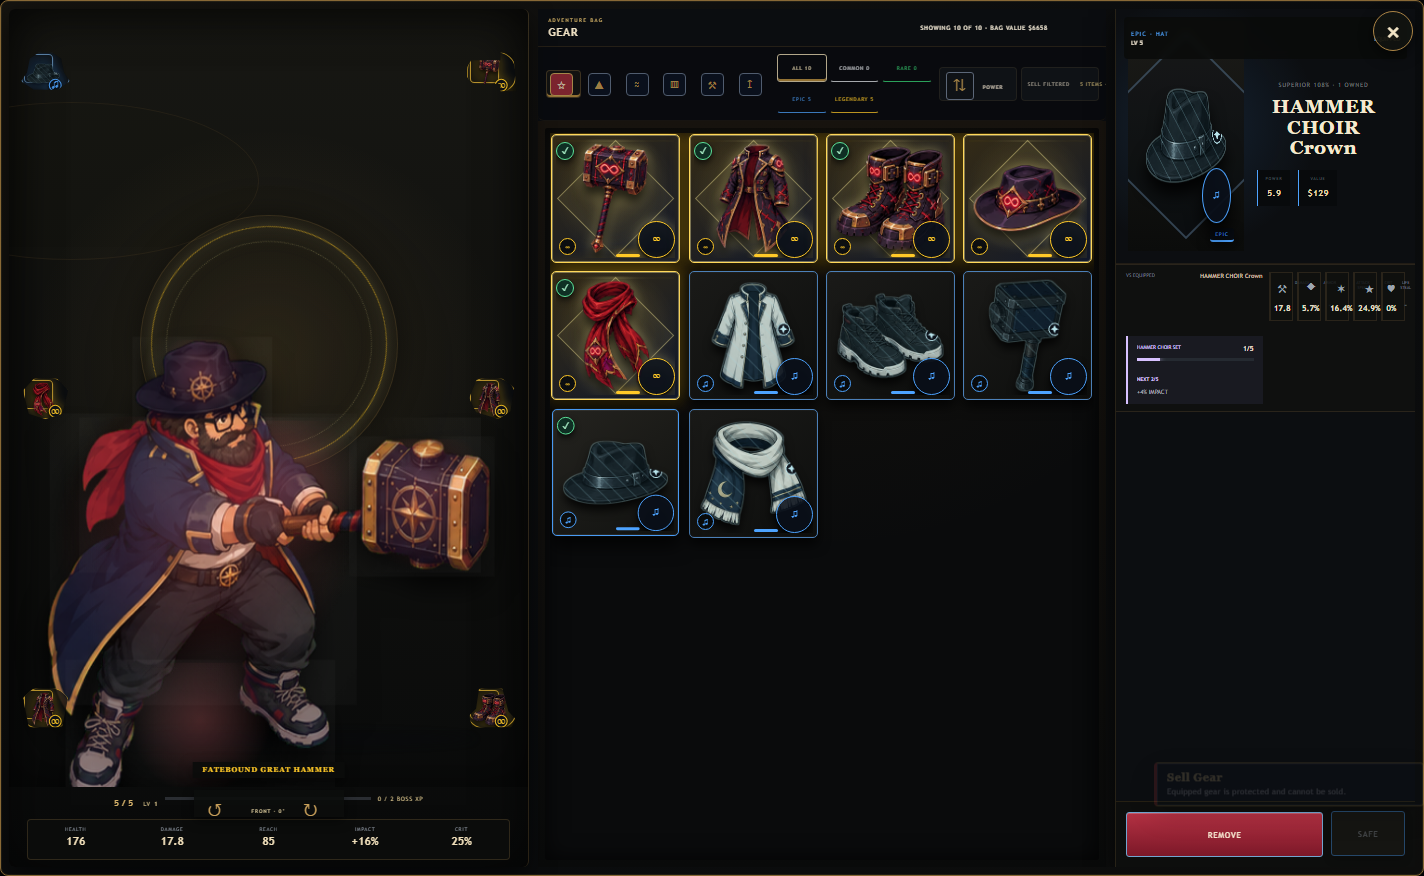
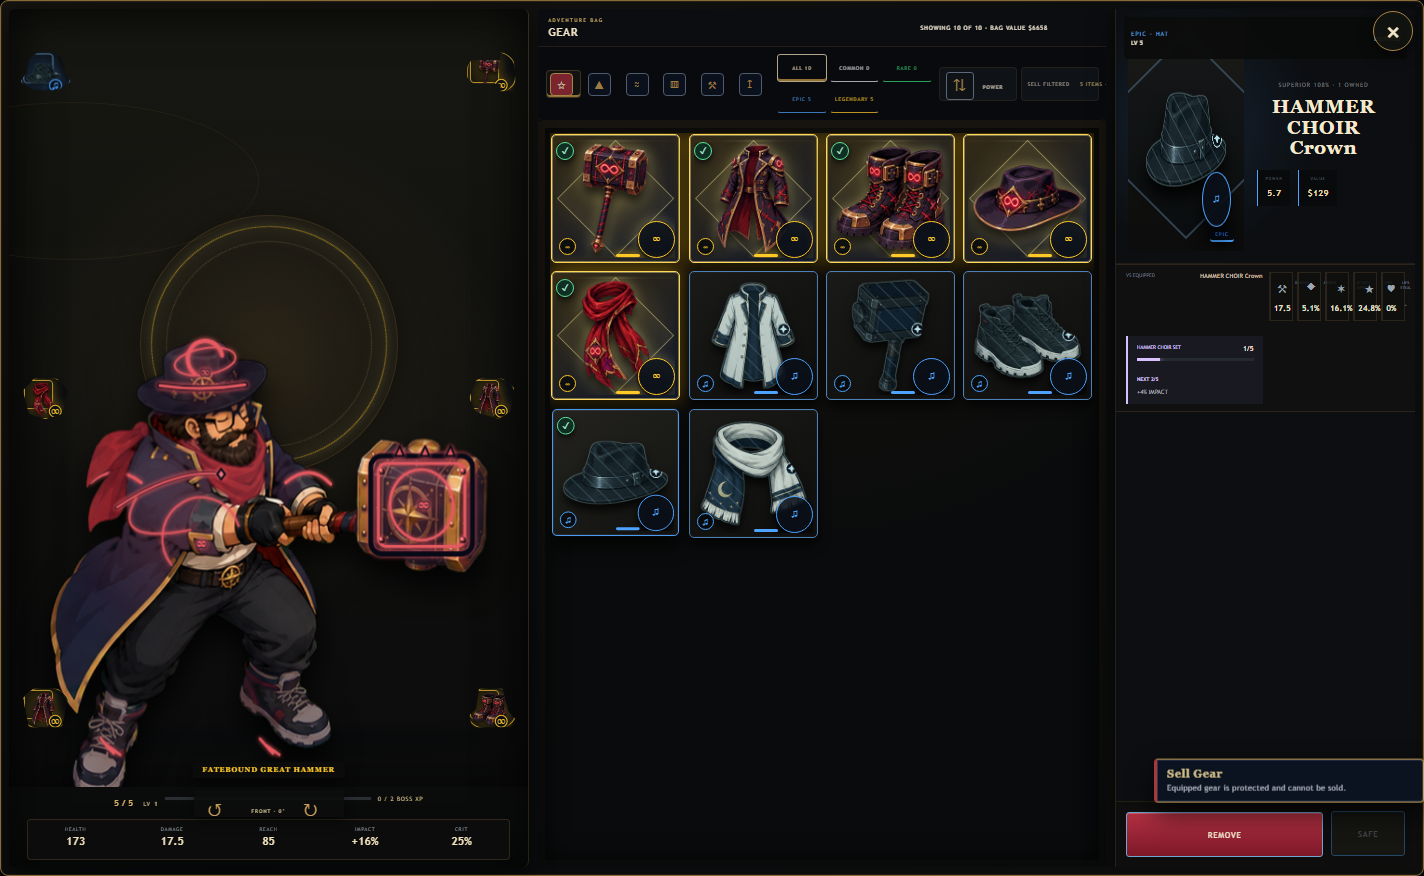
Make every equipped set piece visible

diff --git a/script.js b/script.js
@@ -543,7 +543,7 @@
     layer.fillStyle='#080b11';layer.beginPath();layer.arc(x+1,y+1,r+1,0,Math.PI*2);layer.fill();layer.fillStyle=color;layer.beginPath();layer.arc(x,y,r,0,Math.PI*2);layer.fill();layer.fillStyle=paperDollMix(color,'#ffffff',.58);layer.beginPath();layer.arc(x-r*.28,y-r*.3,Math.max(1,r*.27),0,Math.PI*2);layer.fill()
   }
   function paperDollGem(layer,x,y,r,profile){
-    layer.save();layer.shadowColor=profile.accent;layer.shadowBlur=profile.rank===4?10:5;layer.fillStyle=paperDollMix(profile.accent,'#ffffff',.34);layer.strokeStyle=profile.shadow;layer.lineWidth=2;layer.beginPath();layer.moveTo(x,y-r);layer.lineTo(x+r*.78,y);layer.lineTo(x,y+r);layer.lineTo(x-r*.78,y);layer.closePath();layer.fill();layer.stroke();layer.restore()
+    layer.save();layer.fillStyle=paperDollMix(profile.accent,'#ffffff',.34);layer.strokeStyle=profile.shadow;layer.lineWidth=2;layer.beginPath();layer.moveTo(x,y-r);layer.lineTo(x+r*.78,y);layer.lineTo(x,y+r);layer.lineTo(x-r*.78,y);layer.closePath();layer.fill();layer.stroke();layer.restore()
   }
   function drawPaperDollMaterial(layer,item,slot,b){
     if(!b)return;let profile=paperDollProfile(item),x=b.x,y=b.y,w=b.w,h=b.h,rank=profile.rank;
@@ -560,12 +560,12 @@
     depth.addColorStop(0,'rgba(255,255,255,.2)');
     depth.addColorStop(.45,'rgba(255,255,255,0)');
     depth.addColorStop(1,'rgba(0,0,0,.34)');
-    layer.globalCompositeOperation='overlay';layer.globalAlpha=.34;layer.fillStyle=depth;layer.fillRect(x-3,y-3,w+6,h+6);
+    layer.globalCompositeOperation='source-atop';layer.globalAlpha=.34;layer.fillStyle=depth;layer.fillRect(x-3,y-3,w+6,h+6);
     if(rank>=2){
       let finish=layer.createRadialGradient(x+w*.5,y+h*.42,1,x+w*.5,y+h*.42,Math.max(8,Math.min(w,h)*.55));
       finish.addColorStop(0,paperDollRgba(profile.accent,rank===4?.24:.12));
       finish.addColorStop(1,paperDollRgba(profile.accent,0));
-      layer.globalCompositeOperation='screen';layer.globalAlpha=1;layer.fillStyle=finish;layer.fillRect(x,y,w,h)
+      layer.globalCompositeOperation='source-atop';layer.globalAlpha=1;layer.fillStyle=finish;layer.fillRect(x,y,w,h)
     }
     layer.restore()
   }
@@ -660,10 +660,7 @@
       if(profile.hammer==='lantern'){paperDollGem(layer,px+pw*.51,py+ph*.5,7,profile);layer.strokeStyle=metal;layer.lineWidth=2;layer.beginPath();layer.arc(px+pw*.51,py+ph*.5,11,0,Math.PI*2);layer.stroke()}
       drawPaperDollMark(layer,item,px+pw*.52,py+ph*.5,10+rank)
     }else if(slot==='boots'){
-      for(const bx of [x+w*.18,x+w*.79]){
-        let bootW=w*.16,baseY=y+h*.72;layer.strokeStyle=dark;layer.lineWidth=4;layer.beginPath();layer.moveTo(bx-bootW*.55,baseY);layer.quadraticCurveTo(bx,baseY+h*.1,bx+bootW*.62,baseY-h*.01);layer.stroke();layer.strokeStyle=metal;layer.lineWidth=2.5;layer.stroke();
-        if(['plate','vault','reaver'].includes(profile.boots))paperDollRivet(layer,bx,baseY-h*.035,2.1,metal)
-      }
+      for(const bx of [x+w*.18,x+w*.79])if(['plate','vault','reaver'].includes(profile.boots))paperDollRivet(layer,bx,y+h*.54,2.1,metal);
       if(['trail','guard','forge','royal'].includes(profile.boots)){layer.strokeStyle=metal;layer.lineWidth=2;for(const bx of [x+w*.18,x+w*.79]){layer.beginPath();layer.moveTo(bx-w*.045,y+h*.58);layer.lineTo(bx+w*.04,y+h*.58);layer.moveTo(bx-w*.035,y+h*.63);layer.lineTo(bx+w*.05,y+h*.63);layer.stroke()}}
       if(['swift','phantom','fate'].includes(profile.boots)){layer.strokeStyle=accent;layer.lineWidth=2.5;for(const bx of [x+w*.18,x+w*.79]){layer.beginPath();layer.moveTo(bx-w*.02,y+h*.67);layer.lineTo(bx-w*.07,y+h*.56);layer.moveTo(bx+w*.005,y+h*.68);layer.lineTo(bx-w*.045,y+h*.61);layer.stroke()}}
       if(profile.boots==='reaver'){layer.fillStyle=metal;for(const bx of [x+w*.18,x+w*.79]){layer.beginPath();layer.moveTo(bx+w*.055,y+h*.7);layer.lineTo(bx+w*.1,y+h*.65);layer.lineTo(bx+w*.08,y+h*.75);layer.closePath();layer.fill()}}
@@ -673,7 +670,7 @@
   function composePaperDollPose(pose,resolveItem){
     let resolver=resolveItem||equippedItem;
     let source=pappaHammerSprites[pose],out=document.createElement('canvas'),scratch=document.createElement('canvas');out.width=PAPER_DOLL_CELL*4;out.height=PAPER_DOLL_CELL*2;scratch.width=scratch.height=PAPER_DOLL_CELL;let outCtx=out.getContext('2d'),layer=scratch.getContext('2d');if(!outCtx||!layer)return source;outCtx.imageSmoothingEnabled=layer.imageSmoothingEnabled=true;outCtx.imageSmoothingQuality=layer.imageSmoothingQuality='high';
-    for(let frame=0;frame<8;frame++){let sx=frame%4*512,sy=Math.floor(frame/4)*512,dx=frame%4*PAPER_DOLL_CELL,dy=Math.floor(frame/4)*PAPER_DOLL_CELL;outCtx.drawImage(source,sx,sy,512,512,dx,dy,PAPER_DOLL_CELL,PAPER_DOLL_CELL);for(const renderLayer of PAPER_DOLL_RENDER_LAYERS){let slot=renderLayer.slot,item=resolver(slot);if(!item)continue;let mask=paperDollMaskFrame(pose,slot,frame);layer.clearRect(0,0,PAPER_DOLL_CELL,PAPER_DOLL_CELL);layer.globalCompositeOperation='source-over';layer.globalAlpha=1;layer.drawImage(source,sx,sy,512,512,0,0,PAPER_DOLL_CELL,PAPER_DOLL_CELL);layer.globalCompositeOperation='destination-in';layer.drawImage(mask.canvas,0,0);layer.globalCompositeOperation='source-over';drawPaperDollMaterial(layer,item,slot,mask.bounds);outCtx.drawImage(scratch,dx,dy)}}return out
+    for(let frame=0;frame<8;frame++){let sx=frame%4*512,sy=Math.floor(frame/4)*512,dx=frame%4*PAPER_DOLL_CELL,dy=Math.floor(frame/4)*PAPER_DOLL_CELL;outCtx.drawImage(source,sx,sy,512,512,dx,dy,PAPER_DOLL_CELL,PAPER_DOLL_CELL);for(const renderLayer of PAPER_DOLL_RENDER_LAYERS){let slot=renderLayer.slot,item=resolver(slot);if(!item)continue;let mask=paperDollMaskFrame(pose,slot,frame);layer.clearRect(0,0,PAPER_DOLL_CELL,PAPER_DOLL_CELL);layer.globalCompositeOperation='source-over';layer.globalAlpha=1;layer.drawImage(source,sx,sy,512,512,0,0,PAPER_DOLL_CELL,PAPER_DOLL_CELL);layer.globalCompositeOperation='destination-in';layer.drawImage(mask.canvas,0,0);layer.globalCompositeOperation='source-over';drawPaperDollMaterial(layer,item,slot,mask.bounds);drawPaperDollGeometry(layer,slot,item,mask.bounds,pose,frame);outCtx.drawImage(scratch,dx,dy)}}return out
   }
   function applyPaperDollAtlases(next,key){paperDollAtlases=next;paperDollKey=key;let preview=next.idle&&typeof next.idle.toDataURL==='function'?'url("'+next.idle.toDataURL('image/png')+'")':'url("'+next.idle.src+'")';ui.pappaHammerBaseSprite.style.backgroundImage=preview;ui.gearCharacterHero.style.backgroundImage=preview;ui.gearCharacterHero.dataset.gearVisualKey=paperDollLoadoutKey()}
   function refreshPaperDoll(){
@@ -1030,19 +1027,19 @@
   function playGearEquipEffect(gear,awakened,fullSetActivated){
     let item=gearDefinition(gear),rarity=item&&LOOT_RARITIES[item.rarity],set=item&&item.setId&&SET_BY_ID[item.setId],signature=item&&item.setId&&GEAR_SIGNATURES[item.setId],legendary=item&&item.rarity==='legendary';if(!rarity||!ui.gearCharacterStage)return;
     ui.gearCharacterStage.style.setProperty('--equip-color',signature&&awakened?signature.color:rarity.color);
-    ui.gearCharacterStage.classList.remove('equipBurst','equipLegendary','equipRank2','equipRank4','signatureAwaken','stormcallerAwaken');
+    ui.gearCharacterStage.classList.remove('equipBurst','equipLegendary','equipRank2','equipRank4','signatureAwaken','stormcallerAwaken','fullSetMorph');
     if(ui.pappaHammerBase)ui.pappaHammerBase.classList.remove('stormcallerAwaken');
+    if(fullSetActivated){
+      ui.gearCharacterStage.classList.add('fullSetMorph');
+      setTimeout(()=>ui.gearCharacterStage.classList.remove('fullSetMorph'),420);
+      return
+    }
     ui.gearCharacterStage.classList.add('equipBurst');
     if(legendary)ui.gearCharacterStage.classList.add('equipLegendary','equipRank4');
     gearSlotFeedback(item.slot,rarity,legendary);
     if(awakened&&legendary)ui.gearCharacterStage.classList.add('signatureAwaken');
-    if(fullSetActivated&&item.setId==='stormrunner'){
-      ui.gearCharacterStage.classList.add('stormcallerAwaken');
-      if(ui.pappaHammerBase)ui.pappaHammerBase.classList.add('stormcallerAwaken')
-    }
-    if(fullSetActivated&&set&&ui.gearSetAwaken){ui.gearSetAwaken.style.setProperty('--set-color',signature?signature.color:set.accent);ui.gearSetAwaken.innerHTML='<small>FULL SET AWAKENED</small><b>'+escapeMarkup(set.name)+'</b><em>'+escapeMarkup(signature?signature.name:'SET MASTERY')+'</em>';ui.gearSetAwaken.classList.remove('show');requestAnimationFrame(()=>ui.gearSetAwaken.classList.add('show'));ui.gearSetAwaken.setAttribute('aria-hidden','false')}
     setTimeout(()=>{
-      ui.gearCharacterStage.classList.remove('equipBurst','equipLegendary','equipRank2','equipRank4','signatureAwaken','stormcallerAwaken');
+      ui.gearCharacterStage.classList.remove('equipBurst','equipLegendary','equipRank2','equipRank4','signatureAwaken','stormcallerAwaken','fullSetMorph');
       if(ui.pappaHammerBase)ui.pappaHammerBase.classList.remove('stormcallerAwaken');if(ui.gearSetAwaken){ui.gearSetAwaken.classList.remove('show');ui.gearSetAwaken.setAttribute('aria-hidden','true')}
     },fullSetActivated?1650:awakened?1100:760)
   }
@@ -2781,8 +2778,9 @@
         let removed=new Set(save.gear.filter(gear=>{let item=gearDefinition(gear);return item&&item.setId===setId}).map(gear=>gear.uid));
         save.gear=save.gear.filter(gear=>!removed.has(gear.uid));
         for(const slot of GEAR_SLOTS)save.equipped[slot]=null;
-        for(let index=0;index<GEAR_SLOTS.length;index++){
-          let slot=GEAR_SLOTS[index],item=SET_ITEMS.find(entry=>entry.setId===setId&&entry.slot===slot),gear=rollGearInstance(item,Math.max(set.minLevel,save.level),1.08);
+        let progressionSlots=['hat','scarf','coat','boots','hammer'];
+        for(let index=0;index<progressionSlots.length;index++){
+          let slot=progressionSlots[index],item=SET_ITEMS.find(entry=>entry.setId===setId&&entry.slot===slot),gear=rollGearInstance(item,Math.max(set.minLevel,save.level),1.08);
           save.gear.push(gear);if(index<count)save.equipped[slot]=gear.uid
         }
         paperDollKey='';paperDollPreviewCache.clear();refreshPaperDoll();refreshBase();openGearLocker();renderGearLocker();
@@ -2875,7 +2873,7 @@
       },
       gearVisualCoverage(){
         let missing=LOOT_ITEMS.filter(item=>item.setId?!SET_VISUAL_PROFILES[item.setId]:!FIELD_VISUAL_PROFILES.length).map(item=>item.id);
-        return{items:LOOT_ITEMS.length,setItems:SET_ITEMS.length,legacyItems:LEGACY_LOOT_ITEMS.length,sets:SET_DEFINITIONS.length,profiles:Object.keys(SET_VISUAL_PROFILES).length,missing,usesStripePattern:/drawPaperDollPattern|drawPaperDollGeometry/.test(String(composePaperDollPose)),usesLegacyGearOverlay:/drawPappaGearBack|drawPappaGearFront/.test(String(drawPappaHammer))}
+        return{items:LOOT_ITEMS.length,setItems:SET_ITEMS.length,legacyItems:LEGACY_LOOT_ITEMS.length,sets:SET_DEFINITIONS.length,profiles:Object.keys(SET_VISUAL_PROFILES).length,missing,usesPieceGeometry:String(composePaperDollPose).includes('drawPaperDollGeometry'),usesStripePattern:String(composePaperDollPose).includes('drawPaperDollPattern'),usesLegacyGearOverlay:/drawPappaGearBack|drawPappaGearFront/.test(String(drawPappaHammer))}
       },
       gearMaskBounds(pose,frame){
         if(!PAPER_DOLL_POSES.includes(pose)||frame<0||frame>7)return null;

diff --git a/tests/browser/gear-piece-progression.spec.js b/tests/browser/gear-piece-progression.spec.js
@@ -1,0 +1,49 @@
+const {test,expect}=require('@playwright/test');
+const path=require('path');
+
+async function openGame(page,width=1280,height=900){
+  await page.setViewportSize({width,height});
+  await page.goto('/?playwright');
+  await expect.poll(()=>page.evaluate(()=>Boolean(window.__riskTest))).toBe(true);
+}
+
+test('each set piece visibly evolves Pappa before the full-figure skin takes over',async({page})=>{
+  test.setTimeout(60000);
+  await openGame(page);
+  const stages=[];
+
+  for(let count=0;count<=5;count++){
+    const result=await page.evaluate(value=>window.__riskTest.previewGearSetPieces('hammerChoir',value),count);
+    await expect.poll(()=>page.evaluate(()=>window.__riskTest.gearVisualState().atlases.idle!==null)).toBe(true);
+    const state=await page.evaluate(()=>window.__riskTest.gearVisualState(true));
+    expect(result.inventory.filter(item=>item.equipped)).toHaveLength(count);
+    expect(state.usesProductionSkin).toBe(count===5);
+    expect(state.setId).toBe(count===5?'hammerChoir':null);
+    stages.push({count,hash:state.atlases.idle.hash,image:state.atlases.idle.preview});
+  }
+
+  expect(new Set(stages.map(stage=>stage.hash)).size).toBe(6);
+  await page.evaluate(cards=>{
+    document.body.innerHTML='<main id="progression"></main>';
+    const style=document.createElement('style');
+    style.textContent='*{box-sizing:border-box}html,body{height:auto!important;overflow:visible!important}body{margin:0;background:#080a0e;color:#f4ead6;font-family:Georgia,serif}#progression{display:grid;grid-template-columns:repeat(3,300px);gap:10px;width:max-content;padding:12px}.stage{position:relative;width:300px;height:330px;overflow:hidden;border:1px solid #58492f;background:#11141a}.stage img{width:100%;height:292px;object-fit:contain}.stage b{position:absolute;left:0;right:0;bottom:0;height:38px;display:grid;place-items:center;background:#090b0f;color:#d6aa58;font-size:14px;letter-spacing:1.5px}';
+    document.head.appendChild(style);
+    const root=document.querySelector('#progression');
+    for(const card of cards){const article=document.createElement('article');article.className='stage';const image=document.createElement('img');image.src=card.image;const label=document.createElement('b');label.textContent=card.count+'/5';article.append(image,label);root.appendChild(article)}
+  },stages);
+  await page.screenshot({path:path.join('test-results','gear-progression','hammer-choir-0-to-5.png'),fullPage:true});
+});
+
+test('piece evolution remains readable on iPhone and swaps to Black Hole full skin at 5/5',async({page})=>{
+  await openGame(page,390,844);
+  const hashes=[];
+  for(const count of [1,2,3,4,5]){
+    await page.evaluate(value=>window.__riskTest.previewGearSetPieces('blackHole',value),count);
+    const state=await page.evaluate(()=>window.__riskTest.gearVisualState());
+    hashes.push(state.atlases.idle.hash);
+    expect(state.usesProductionSkin).toBe(count===5);
+  }
+  expect(new Set(hashes).size).toBe(5);
+  await expect(page.locator('#gearCharacterStage')).toBeVisible();
+  await page.locator('#gearCharacterStage').screenshot({path:path.join('test-results','gear-progression','black-hole-full-mobile.png')});
+});

diff --git a/index.html b/index.html
@@ -8,14 +8,14 @@
   <meta name="apple-mobile-web-app-status-bar-style" content="black-translucent">
   <meta name="description" content="Risk everything, recover equippable gear and build Pappa Hammer in this compact extraction roguelite.">
   <title>RISK THE LOOT!</title>
-  <link rel="stylesheet" href="style.css?v=0.56.3">
+  <link rel="stylesheet" href="style.css?v=0.57.0">
 </head>
 <body>
   <main id="game">
     <header class="topbar">
       <div class="brand" tabindex="0" data-help-title="Risk the Loot" data-help="Enter the tower, defeat champions and decide when the gear you carry is valuable enough to extract.">
         <span class="brandMark">R</span>
-        <div><strong>RISK THE LOOT!</strong><small>INSTANT EQUIP v0.56.3</small></div>
+        <div><strong>RISK THE LOOT!</strong><small>PIECE EVOLUTION v0.57.0</small></div>
       </div>
       <div class="resources">
         <div class="resource level" data-help-title="Pappa Level" data-help="Boss victories grant XP. Higher levels unlock stronger gear and tougher champions."><i>LV</i><div><b id="pappaLevel">1</b><span>PAPPA</span></div></div>
@@ -377,12 +377,12 @@
         </div>
         <button id="resumeButton" class="primaryButton settingsResume"><span>RESUME</span><i>&#8250;</i></button>
         <button id="abandonButton" class="dangerButton">ABANDON EXPEDITION</button>
-        <p class="buildStamp">v0.56.3 INSTANT EQUIP</p>
+        <p class="buildStamp">v0.57.0 PIECE EVOLUTION</p>
       </div>
     </div>
     <aside id="helpTooltip" class="helpTooltip" role="tooltip" aria-hidden="true"><strong id="helpTooltipTitle"></strong><span id="helpTooltipText"></span></aside>
   </main>
-  <script src="guild-terrain.js?v=0.56.3"></script>
-  <script src="script.js?v=0.56.3"></script>
+  <script src="guild-terrain.js?v=0.57.0"></script>
+  <script src="script.js?v=0.57.0"></script>
 </body>
 </html>

diff --git a/tests/browser/legendary-glow-policy.spec.js b/tests/browser/legendary-glow-policy.spec.js
@@ -29,7 +29,8 @@ test('Common, Rare and Epic gear use solid presentation without emitted glow',as
 
   const {item,feedback}=await equipFinalSetPiece(page,'hammerChoir');
   expect(item.rarity).toBe('epic');
-  expect(feedback.classes).toContain('equipBurst');
+  expect(feedback.classes).toContain('fullSetMorph');
+  expect(feedback.classes).not.toContain('equipBurst');
   expect(feedback.classes).not.toContain('equipLegendary');
   expect(feedback.classes).not.toContain('loadoutCompleteSet');
   expect(feedback.particles).toBe(0);
@@ -55,7 +56,7 @@ test('Common, Rare and Epic gear use solid presentation without emitted glow',as
   expect(appearance.heroFilter).not.toContain('77, 163, 255');
 });
 
-test('Legendary gear retains premium preview, particles and full-set glow',async({page})=>{
+test('Legendary gear retains its premium preview while full sets morph without decorative particles',async({page})=>{
   await openGame(page);
   const setup=await page.evaluate(()=>window.__riskTest.previewGearSetPieces('fatebound',4));
   const item=setup.inventory.find(entry=>!entry.equipped);
@@ -73,7 +74,8 @@ test('Legendary gear retains premium preview, particles and full-set glow',async
       particles:document.querySelectorAll('.gearSlotParticles').length
     };
   });
-  expect(feedback.classes).toContain('equipLegendary');
+  expect(feedback.classes).toContain('fullSetMorph');
+  expect(feedback.classes).not.toContain('equipLegendary');
   expect(feedback.classes).toContain('loadoutCompleteSet');
-  expect(feedback.particles).toBeGreaterThan(0);
+  expect(feedback.particles).toBe(0);
 });

diff --git a/tests/browser/stormcaller-legendary.spec.js b/tests/browser/stormcaller-legendary.spec.js
@@ -36,7 +36,7 @@ test('Stormcaller pieces use dedicated icons and the full set uses its productio
   });
 });
 
-test('equipping the final Stormcaller piece gives a short local activation',async({page})=>{
+test('equipping the final Stormcaller piece morphs naturally into its production skin',async({page})=>{
   await openTestGame(page);
   const setup=await page.evaluate(()=>window.__riskTest.previewGearSetPieces('stormrunner',4));
   const finalPiece=setup.inventory.find(item=>item.itemId.startsWith('stormrunner-')&&!item.equipped);
@@ -47,11 +47,12 @@ test('equipping the final Stormcaller piece gives a short local activation',asyn
   await page.evaluate(()=>document.querySelector('#gearDetail .equipGear').click());
   const stage=page.locator('#gearCharacterStage');
   await expect(stage).toHaveAttribute('data-set-id','stormrunner');
-  await expect(stage).toHaveClass(/stormcallerAwaken/);
+  await expect(stage).toHaveClass(/fullSetMorph/);
+  await expect(stage).not.toHaveClass(/stormcallerAwaken|signatureAwaken|equipLegendary/);
   await stage.screenshot({
     path:path.join('test-results','stormcaller','full-set-activation.png')
   });
-  await expect(stage).not.toHaveClass(/stormcallerAwaken/,{timeout:2500});
+  await expect(stage).not.toHaveClass(/fullSetMorph/,{timeout:1200});
 });
 
 test('Stormcaller chain VFX communicate departure, travel, impact and kills',async({page})=>{

diff --git a/style.css b/style.css
@@ -1355,9 +1355,11 @@ button:focus-visible{outline-color:#f4ead6}
 .gearCharacterStage.equipBurst .gearCharacterHero{animation:pappaHammerFrames 1.65s step-end infinite,equipHeroSettle .52s cubic-bezier(.18,.8,.2,1)}
 .gearCharacterStage.equipLegendary.equipBurst .gearCharacterHero{animation:pappaHammerFrames 1.65s step-end infinite,equipHeroPulse .52s cubic-bezier(.18,.8,.2,1)}
 .gearCharacterStage.equipLegendary.equipBurst .gearCharacterHalo{animation:equipHaloPulse .55s ease-out}
+.gearCharacterStage.fullSetMorph .gearCharacterHero{animation:pappaHammerFrames 1.65s step-end infinite,fullSetMorph .38s cubic-bezier(.2,.72,.25,1)}
 @keyframes equipHeroSettle{0%{transform:translateX(-50%) scale(.985)}48%{transform:translateX(-50%) scale(1.012)}100%{transform:translateX(-50%) scale(1)}}
 @keyframes equipHeroPulse{0%{filter:brightness(1);transform:translateX(-50%) scale(.97)}42%{filter:brightness(1.24) drop-shadow(0 0 12px var(--equip-color));transform:translateX(-50%) scale(1.025)}100%{filter:brightness(1);transform:translateX(-50%) scale(1)}}
 @keyframes equipHaloPulse{0%{opacity:.3;transform:scale(.78)}45%{opacity:1;transform:scale(1.04)}100%{opacity:.68;transform:scale(1)}}
+@keyframes fullSetMorph{0%{opacity:.82;transform:translateX(-50%) scale(.99)}100%{opacity:1;transform:translateX(-50%) scale(1)}}
 
 @media(max-width:900px){
   #gearOverlay{padding:0}

diff --git a/tests/browser/gear-visual-reference.spec.js b/tests/browser/gear-visual-reference.spec.js
@@ -16,6 +16,7 @@ test('every current gear item has a Gear 2.0 visual profile',async({page})=>{
     sets:21,
     profiles:21,
     missing:[],
+    usesPieceGeometry:true,
     usesStripePattern:false,
     usesLegacyGearOverlay:false
   });
